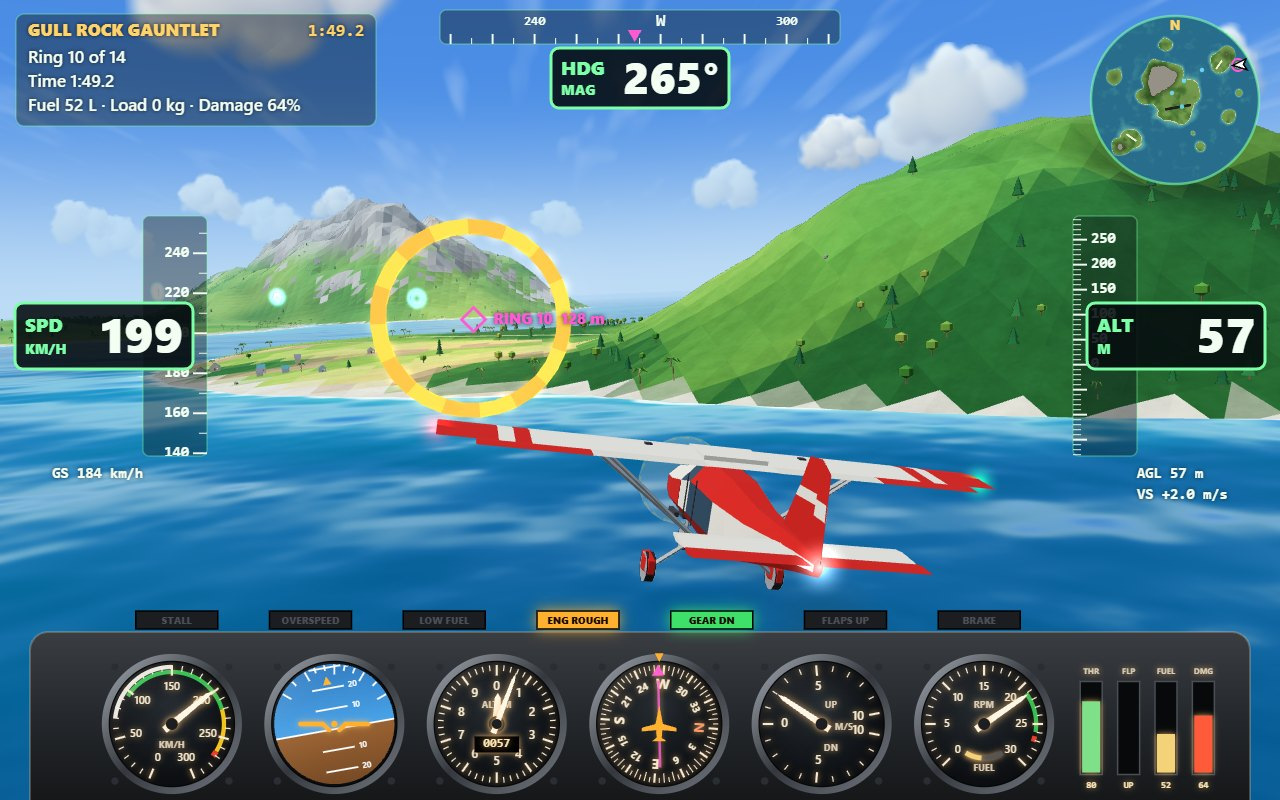
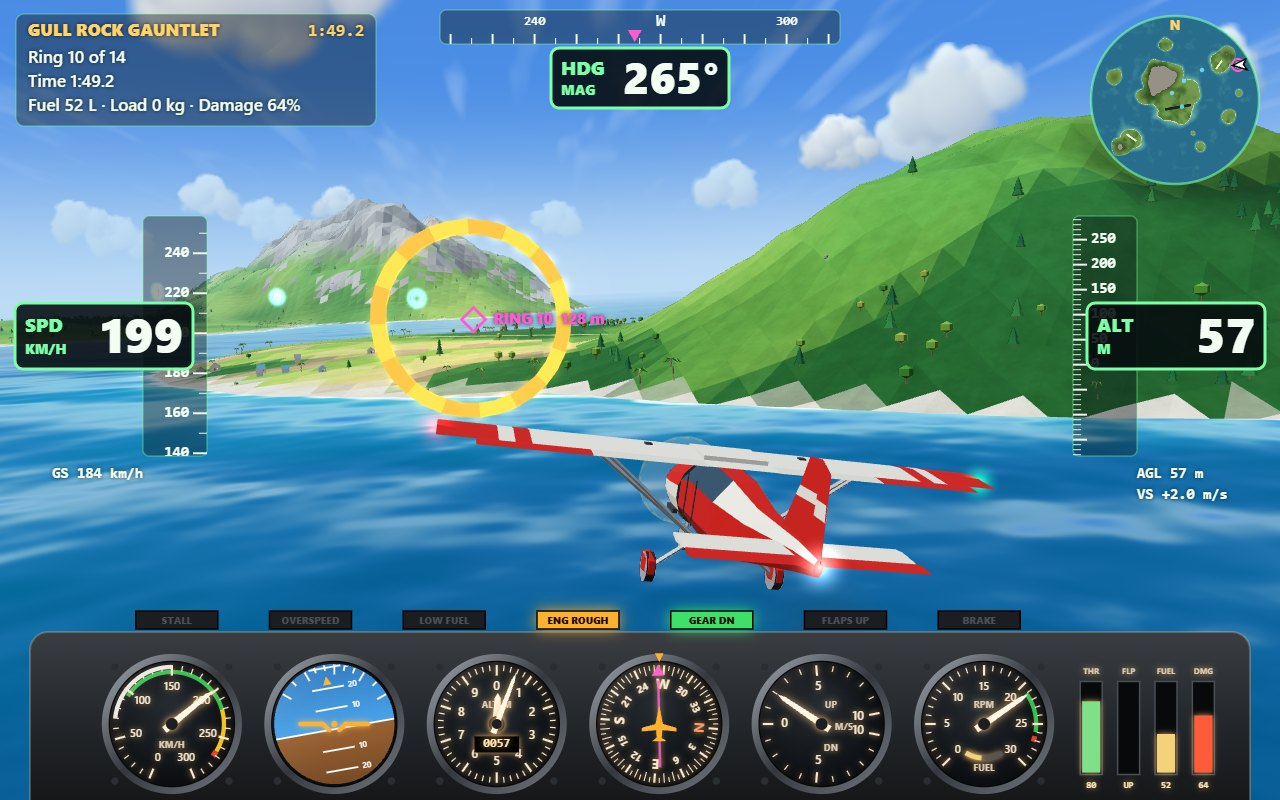
Rounded red cowl with cream stripe and spinner in the cockpit view; glossy symmetric livery

Changed region(s): [[0.5, 0.5625, 0.625, 0.6875], [0.625, 0.6875, 0.6562, 0.7188]]

diff --git a/game/src/sortie-board.js b/game/src/sortie-board.js
@@ -4,7 +4,7 @@ import { formatTime } from './missions.js';
 import { performance } from './loadout.js';
 import { AIRFRAME } from './flight-model.js';
 import { WORLD_HALF } from './world-layout.js';
-import { FONT, SERIF, gradient, line, panel, poly, text, wrapText } from './canvas-kit.js';
+import { FONT, SERIF, gradient, line, panel, poly, text, textTL, wrapText } from './canvas-kit.js';
 import { KEYS, card, drawMedal, tile } from './screens.js';
 
 const KIND = { landing: ['LANDING', '#7dd3ff'], rings: ['RING COURSE', '#ffd36b'], drop: ['SUPPLY DROP', '#ff9a5c'], mail: ['MAIL RUN', '#b7f07a'], free: ['EXPLORE', '#d2c2ff'] };
@@ -60,7 +60,7 @@ function routeChart(ctx, minimap, def, x, y, s) {
 }
 
 function loadBar(ctx, x, y, w, label, value, frac, color, keys) {
-	text(ctx, label, x, y, 14, DIM, 800, FONT, 'left', 'top');
+	textTL(ctx, label, x, y, 14, DIM, 800);
 	text(ctx, keys, x + w, y, 12, '#6f8794', 700, FONT, 'right', 'top');
 	const button = (bx, t) => {
 		panel(ctx, bx, y + 22, 30, 30, 6, 'rgba(255,255,255,0.12)', 'rgba(255,255,255,0.3)');
@@ -96,16 +96,16 @@ export function drawSortieBoard(ctx, W, H, { selected, best, time, loadout, mini
 
 	const def = MISSIONS[selected], bx = 512, bw = Math.min(W - bx - 36, 740), px = 538, right = bx + bw - 26;
 	card(ctx, bx, 40, bw, 676);
-	text(ctx, 'SORTIE BRIEFING', px, 62, 13, DIM, 800, FONT, 'left', 'top');
-	text(ctx, def.title, px, 82, 32, GOLD, 800, FONT, 'left', 'top');
+	textTL(ctx, 'SORTIE BRIEFING', px, 62, 13, DIM, 800);
+	textTL(ctx, def.title, px, 82, 32, GOLD, 800);
 	chip(ctx, right, 62, def.kind);
 	ctx.font = `500 17px ${FONT}`;
-	wrapText(ctx, def.brief, bw - 52).forEach((l, i) => text(ctx, l, px, 130 + i * 24, 17, '#e3ebef', 500, FONT, 'left', 'top'));
+	wrapText(ctx, def.brief, bw - 52).forEach((l, i) => textTL(ctx, l, px, 130 + i * 24, 17, '#e3ebef', 500));
 	routeChart(ctx, minimap, def, px, 190, 300);
-	text(ctx, `WIND ${String(def.wind.fromDeg).padStart(3, '0')}° ${Math.round(def.wind.speed * 3.6)} KM/H${def.wind.gust > 0.3 ? ', GUSTING' : ''}`, px, 500, 13, DIM, 800, FONT, 'left', 'top');
+	textTL(ctx, `WIND ${String(def.wind.fromDeg).padStart(3, '0')}° ${Math.round(def.wind.speed * 3.6)} KM/H${def.wind.gust > 0.3 ? ', GUSTING' : ''}`, px, 500, 13, DIM, 800);
 
 	const lx = px + 326, lw = right - lx, perf = performance(loadout), A = AIRFRAME, c = def.cargo;
-	text(ctx, 'LOADOUT', lx, 190, 15, '#fff', 900, FONT, 'left', 'top');
+	textTL(ctx, 'LOADOUT', lx, 190, 15, '#fff', 900);
 	const [fm, fp] = loadBar(ctx, lx, 220, lw, 'FUEL', `${loadout.fuel} L  ·  ${Math.round(loadout.fuel * A.fuelKgPerLitre)} kg`, loadout.fuel / A.fuelCapacity, '#e8b23a', 'A / D');
 	hit(fm, { fuel: -1 });
 	hit(fp, { fuel: 1 });
@@ -113,7 +113,7 @@ export function drawSortieBoard(ctx, W, H, { selected, best, time, loadout, mini
 		const [cm, cp] = loadBar(ctx, lx, 290, lw, c.label, c.each ? `${loadout.cargo / c.each} × ${c.each} kg` : `${loadout.cargo} kg`, loadout.cargo / A.maxCargo, '#5fb8ff', 'Q / E');
 		hit(cm, { cargo: -1 });
 		hit(cp, { cargo: 1 });
-	} else text(ctx, 'No cargo on this sortie', lx, 312, 14, '#6f8794', 700, FONT, 'left', 'top');
+	} else textTL(ctx, 'No cargo on this sortie', lx, 312, 14, '#6f8794', 700);
 	const tw = (lw - 10) / 2, red = '#ff8a6b';
 	tile(ctx, lx, 366, tw, 'TAKE-OFF WEIGHT', String(Math.round(perf.mass)), 'kg', perf.mass > 1050 ? red : INK);
 	tile(ctx, lx + tw + 10, 366, tw, 'STALL, CLEAN', String(Math.round(perf.stallKmh)), 'km/h', INK);
@@ -122,11 +122,11 @@ export function drawSortieBoard(ctx, W, H, { selected, best, time, loadout, mini
 
 	ctx.strokeStyle = 'rgba(255,255,255,0.15)';
 	line(ctx, px, 574, right, 574);
-	text(ctx, 'MEDALS', px, 588, 13, DIM, 800, FONT, 'left', 'top');
-	text(ctx, medalTargets(def), px, 610, 16, INK, 700, FONT, 'left', 'top');
-	text(ctx, 'YOUR BEST', px, 646, 13, DIM, 800, FONT, 'left', 'top');
+	textTL(ctx, 'MEDALS', px, 588, 13, DIM, 800);
+	textTL(ctx, medalTargets(def), px, 610, 16, INK, 700);
+	textTL(ctx, 'YOUR BEST', px, 646, 13, DIM, 800);
 	drawMedal(ctx, px + 102, 656, 13, best[def.id]);
-	text(ctx, best[def.id] ? best[def.id].toUpperCase() : 'NOT YET FLOWN', px + 124, 648, 15, INK, 800, FONT, 'left', 'top');
+	textTL(ctx, best[def.id] ? best[def.id].toUpperCase() : 'NOT YET FLOWN', px + 124, 648, 15, INK, 800);
 	panel(ctx, right - 230, 632, 230, 58, 12, Math.floor(time * 2) % 2 ? '#ffd36b' : '#ffc23a');
 	text(ctx, 'TAKE OFF  ⏎', right - 115, 662, 22, '#1b1208', 900);
 	hit({ x: right - 230, y: 632, w: 230, h: 58 }, { go: true });

diff --git a/game/src/debrief.js b/game/src/debrief.js
@@ -1,6 +1,6 @@
 // The debrief after a sortie: a touchdown score card with its runway diagram, the result lines, the crash explained, and a damage diagram.
 import { findStrip } from './world-layout.js';
-import { FONT, line, panel, poly, text, wrapText } from './canvas-kit.js';
+import { FONT, line, panel, poly, text, textTL, wrapText } from './canvas-kit.js';
 import { card, drawMedal, tile } from './screens.js';
 import { sinkRating } from './landing-score.js';
 
@@ -11,7 +11,7 @@ const FAILED = { gear: 'COLLAPSED', flaps: 'JAMMED', engine: 'SEIZED', airframe:
 function damageDiagram(ctx, x, y, w, ac) {
 	const p = ac.crashed ? { engine: 100, gear: 100, flaps: 100, airframe: 100 } : ac.parts, cx = x + w / 2, cy = y + 120, s = w / 12.5;
 	const shape = (pts, d) => poly(ctx, pts.map(([u, v]) => [cx + u * s, cy + v * s]), health(d), '#000');
-	text(ctx, 'AIRCRAFT CONDITION', x, y, 13, DIM, 800, FONT, 'left', 'top');
+	textTL(ctx, 'AIRCRAFT CONDITION', x, y, 13, DIM, 800);
 	shape([[-5.6, -1.4], [5.6, -1.4], [5.6, 0], [-5.6, 0]], p.airframe);
 	for (const m of [1, -1]) shape([[m * 0.7, 0], [m * 2.85, 0], [m * 2.85, 0.45], [m * 0.7, 0.45]], p.flaps);
 	shape([[-0.6, -1.8], [0.6, -1.8], [0.45, 1.7], [0.12, 3.9], [-0.12, 3.9], [-0.45, 1.7]], p.airframe);
@@ -25,7 +25,7 @@ function damageDiagram(ctx, x, y, w, ac) {
 		text(ctx, `${Math.round(d)}%  ${d >= 100 ? FAILED[part] : d >= 50 ? 'DAMAGED' : d >= 20 ? 'WORN' : 'OK'}`, x + w, ry, 14, health(d), 800, FONT, 'right');
 	});
 	const worst = Math.max(...Object.values(p));
-	if (!ac.crashed && worst > 0) text(ctx, `Strip repair: about ${Math.ceil(worst / 4)} s stopped`, x, y + 340, 13, DIM, 700, FONT, 'left', 'top');
+	if (!ac.crashed && worst > 0) textTL(ctx, `Strip repair: about ${Math.ceil(worst / 4)} s stopped`, x, y + 340, 13, DIM, 700);
 }
 
 function touchdownDiagram(ctx, x, y, w, def, card, td, stop) {
@@ -61,10 +61,10 @@ export function drawDebrief(ctx, W, H, def, result, report, ac) {
 	ctx.save();
 	ctx.setTransform(k, 0, 0, k, (W - 1280 * k) / 2, 0);
 	card(ctx, 140, 34, 1000, 640);
-	text(ctx, `${def.title.toUpperCase()}  ·  DEBRIEF`, 170, 58, 13, DIM, 800, FONT, 'left', 'top');
-	text(ctx, report ? 'CRASHED' : c ? `LANDING ${result.score} / 100` : result.success ? 'MISSION COMPLETE' : 'MISSION FAILED', 170, 78, 38, report ? '#ff6b4f' : result.success ? GOOD : '#ffb02e', 900, FONT, 'left', 'top');
+	textTL(ctx, `${def.title.toUpperCase()}  ·  DEBRIEF`, 170, 58, 13, DIM, 800);
+	textTL(ctx, report ? 'CRASHED' : c ? `LANDING ${result.score} / 100` : result.success ? 'MISSION COMPLETE' : 'MISSION FAILED', 170, 78, 38, report ? '#ff6b4f' : result.success ? GOOD : '#ffb02e', 900);
 	ctx.font = `700 19px ${FONT}`;
-	wrapText(ctx, (report || result).headline || '', 560).forEach((l, i) => text(ctx, l, 170, 130 + i * 24, 19, '#fff6e2', 700, FONT, 'left', 'top'));
+	wrapText(ctx, (report || result).headline || '', 560).forEach((l, i) => textTL(ctx, l, 170, 130 + i * 24, 19, '#fff6e2', 700));
 	if (!report) {
 		drawMedal(ctx, 1070, 110, 34, result.medal);
 		text(ctx, result.medal ? result.medal.toUpperCase() : 'NO MEDAL', 1070, 160, 13, DIM, 800);
@@ -82,7 +82,7 @@ export function drawDebrief(ctx, W, H, def, result, report, ac) {
 	ctx.font = `600 16px ${FONT}`;
 	for (const l of lines.slice(0, 8)) {
 		const m = l.match(/^(.*?)\s*\(([+-]\d+)\)$/);
-		for (const part of wrapText(ctx, m ? m[1] : l, 530)) text(ctx, part, 170, (y += 22) - 22, 16, INK, 600, FONT, 'left', 'top');
+		for (const part of wrapText(ctx, m ? m[1] : l, 530)) textTL(ctx, part, 170, (y += 22) - 22, 16, INK, 600);
 		if (m) text(ctx, m[2], 760, y - 22, 17, m[2] === '+0' ? '#ff8a6b' : GOOD, 800, FONT, 'right', 'top');
 		y += 5;
 	}

diff --git a/game/src/missions.js b/game/src/missions.js
@@ -1,5 +1,5 @@
 // Mission runtime: start a sortie with its loadout, follow each step (rings, gate, touchdown, crates, mail), grade it.
-import { DEG, length } from './math3d.js';
+import { DEG, clamp, length } from './math3d.js';
 import { AIRFRAME, worstDamage } from './flight-model.js';
 import { defaultLoadout } from './loadout.js';
 import { layRingCourse, makeRing, ringCrossing } from './rings.js';
@@ -32,7 +32,7 @@ export function startMission(def, world, loadout = defaultLoadout(def)) {
 	const run = {
 		def, loadout, time: 0, status: 'running', result: null, messages: [], sounds: [], rings: [], gate: null, targets: [], crates: [], cratesLeft: 0,
 		ringIndex: 0, targetIndex: 0, stopIndex: 0, holdTimer: 0, firstTouchdown: null, waypoint: null, delivered: [],
-		say: (text, color = '#ffffff', seconds = 2.5) => run.messages.push({ text, color, seconds }),
+		say: (text, color = '#fff', seconds = 2.5) => run.messages.push({ text, color, seconds }),
 	};
 	const k = def.kind, port = findStrip('port'), d = stripDirection(port), back = port.length / 2 - 40;
 	run.start = { pos: [port.x - d[0] * back, port.elev + 1.35, port.z - d[2] * back], heading: port.heading * DEG, flaps: 1, onGround: true };
@@ -92,7 +92,7 @@ function updateLanding(run, ac, world) {
 	res.lines.unshift(gate.passed ? 'Approach gate threaded' : 'Approach gate missed  (-10)');
 	const stores = def.cargo && on ? Math.floor(run.loadout.cargo / 24) : 0;
 	if (stores) res.lines.push(`${run.loadout.cargo} kg of medical stores delivered  (+${stores})`);
-	res.score = Math.max(0, Math.min(100, res.score + stores - (gate.passed ? 0 : 10)));
+	res.score = clamp(res.score + stores - (gate.passed ? 0 : 10), 0, 100);
 	const ok = on && res.score >= 40;
 	const headline = !on ? 'Landed off the strip' : ok ? `Down at ${Math.abs(td.vs).toFixed(1)} m/s, ${Math.round(res.fromThreshold)} m past the threshold, ${Math.abs(td.across).toFixed(1)} m off the line` : `Scored ${res.score} / 100: not good enough to pass`;
 	finish(run, ok, { medal: medalFor(res.score), score: res.score, headline, lines: res.lines, touchdown: td, card: res, stop: stripLocal(findStrip(def.strip), ac.pos[0], ac.pos[2]) });
@@ -108,7 +108,7 @@ function updateCrate(run, c, world, dt) {
 	const dist = Math.hypot(c.pos[0] - t.pos[0], c.pos[2] - t.pos[2]);
 	if (dist >= 150) return run.say(`Crate lost ${Math.round(dist)} m wide`, '#ff8a6b');
 	Object.assign(t, { done: true, dist, score: Math.round(100 * Math.exp(-dist / 45)) });
-	run.say(`${t.name}: ${Math.round(dist)} m from the mark  (+${t.score})`, dist < 15 ? '#ffd36b' : '#ffffff', 3);
+	run.say(`${t.name}: ${Math.round(dist)} m from the mark  (+${t.score})`, dist < 15 ? '#ffd36b' : '#fff', 3);
 	run.sounds.push(dist < 15 ? 'ring' : 'thud');
 	const next = run.targets[++run.targetIndex];
 	run.waypoint = next ? { pos: next.pos, label: 'DROP' } : null;
@@ -120,7 +120,7 @@ function updateDrop(run, ac, world, dt, drop) {
 		ac.cargo = Math.max(0, ac.cargo - run.def.cargo.each);
 		run.crates.push(newCrate(ac));
 		run.sounds.push('drop');
-		run.say(`Crate away: ${run.cratesLeft} left`, '#ffffff', 1.5);
+		run.say(`Crate away: ${run.cratesLeft} left`, '#fff', 1.5);
 	}
 	for (const c of run.crates) if (!c.landed) updateCrate(run, c, world, dt);
 	const allDone = run.targetIndex >= run.targets.length;

diff --git a/game/src/aircraft-mesh.js b/game/src/aircraft-mesh.js
@@ -36,14 +36,13 @@ function panel(mb, x0, x1, zf, zt, y, t, top, bottom = top) {
 	}
 }
 
-function buildNose(mb) {
-	const top = [RED, CREAM, CREAM, RED, RED, RED, RED, RED];
-	mb.loft([{ z: -3.35, w: 0.42, h: 0.42, y: 0.05, color: RED, colors: top }, { z: -2.6, w: 0.56, h: 0.56, y: 0.08, colors: top }, { z: -1.7, w: 0.62, h: 0.7, y: 0.2, color: DARK }]);
-	for (let k = 0; k < 4; k++) mb.box(0, 0.63, -2.75 + k * 0.17, 0.42, 0.03, 0.06, DARK);
+function buildNose(mb, tail = []) {
+	const colors = [...'rrrcrrrccrrrrrcc'].map((c) => (c > 'q' ? RED : CREAM));
+	mb.loft([{ z: -3.4, w: 0.36, h: 0.36, y: 0.05, color: DARK, colors }, { z: -3.15, w: 0.5, h: 0.5, y: 0.07, colors }, { z: -2.5, w: 0.6, h: 0.62, y: 0.12, colors }, { z: -1.7, w: 0.63, h: 0.72, y: 0.2, color: DARK, colors }, ...tail], 16);
 	mb.box(0, -0.5, -2.65, 0.36, 0.14, 0.4, DARK);
-	for (const s of [-1, 1]) mb.box(s * 0.45, -0.38, -2.3, 0.1, 0.1, 0.5, DARK);
-	mb.push(mat4Compose(mat4Translate(0, HINGES.prop.y, -3.35), mat4RotateX(-Math.PI / 2)));
-	mb.frustum(0, 0, 0, 0.3, 0.5, 0, 8, RED);
+	for (const s of [-1, 1]) mb.box(s * 0.5, -0.3, -2.3, 0.1, 0.1, 0.5, DARK);
+	mb.push(mat4Compose(mat4Translate(0, HINGES.prop.y, -3.4), mat4RotateX(-Math.PI / 2)));
+	mb.frustum(0, 0, 0, 0.32, 0.3, 0.22, 12, RED).frustum(0, 0.3, 0, 0.22, 0.55, 0, 12, CREAM);
 	mb.pop();
 }
 
@@ -59,11 +58,11 @@ function buildWing(mb) {
 }
 
 function buildBody(mb) {
-	const side = (glass) => [CREAM, RED, RED, CREAM, RED, RED, RED, RED].map((c, k) => (glass && (k === 0 || k === 3) ? GLASS : c));
+	const side = (glass) => [CREAM, RED, CREAM, RED, RED, RED, RED, RED].map((c, k) => (glass && (k === 0 || k === 2) ? GLASS : c));
 	buildNose(mb);
 	buildWing(mb);
 	mb.loft([
-		{ z: -1.7, w: 0.62, h: 0.7, y: 0.2, color: RED, colors: [CREAM, GLASS, GLASS, CREAM, RED, NAVY, NAVY, RED] }, { z: -1.0, w: 0.64, h: 0.84, y: 0.3, colors: side(true) },
+		{ z: -1.7, w: 0.62, h: 0.7, y: 0.2, color: RED, colors: [GLASS, GLASS, GLASS, RED, RED, NAVY, NAVY, RED] }, { z: -1.0, w: 0.64, h: 0.84, y: 0.3, colors: side(true) },
 		{ z: 0.1, w: 0.63, h: 0.82, y: 0.3, colors: side(true) }, { z: 0.5, w: 0.62, h: 0.8, y: 0.3, colors: side(false) },
 		{ z: 1.7, w: 0.42, h: 0.52, y: 0.38, colors: side(false) }, { z: 3.3, w: 0.18, h: 0.26, y: 0.58, colors: side(false) },
 		{ z: 3.95, w: 0.08, h: 0.14, y: 0.62, color: RED },
@@ -110,7 +109,7 @@ export function buildAircraftMeshes() {
 	const surface = (x0, x1, color, zf = -0.08, zt = 0.38, y = 1.22, t = 0.08) => mesh((mb) => panel(mb, x0, x1, zf, zt, y, t, color));
 	const z = HINGES.rudder.z;
 	return {
-		body: mesh(buildBody), cockpit: mesh(buildNose), gear: mesh(buildGear), blades: mesh(buildBlades), disc: mesh(buildDisc),
+		body: mesh(buildBody), cockpit: mesh((mb) => buildNose(mb, [{ z: -0.6, w: 0.64, h: 0.76, y: 0.22, color: DARK }])), gear: mesh(buildGear), blades: mesh(buildBlades), disc: mesh(buildDisc),
 		aileronL: surface(-4.9, -2.85, RED), aileronR: surface(2.85, 4.9, RED), flapL: surface(-2.85, -0.7, FLAP), flapR: surface(0.7, 2.85, FLAP),
 		elevator: surface(-1.9, 1.9, RED, 3.45, 3.9, 0.62, 0.07),
 		rudder: mesh((mb) => {

diff --git a/game/src/main.js b/game/src/main.js
@@ -1,5 +1,5 @@
 // Saltwind Isles entry point: title, flight and debrief loop at a fixed physics step; ?shot=<name> stages a screenshot.
-import { attitudeOf, length } from './math3d.js';
+import { attitudeOf, clamp, length } from './math3d.js';
 import { GLRenderer } from './gl-renderer.js';
 import { createWorld } from './world.js';
 import { SceneRenderer } from './scene-render.js';
@@ -39,9 +39,7 @@ function parkedAircraft() {
 }
 game.ac = parkedAircraft();
 
-function toTitle() {
-	Object.assign(game, { state: 'title', ac: parkedAircraft(), run: null });
-}
+const toTitle = () => Object.assign(game, { state: 'title', ac: parkedAircraft(), run: null });
 
 function startMissionAt(index) {
 	const def = MISSIONS[index], run = startMission(def, world, { ...loadoutFor(def) });
@@ -53,9 +51,7 @@ function startMissionAt(index) {
 const NOTES = { 'engine-out': ['ENGINE FAILURE: glide to a strip', '#ff5a3a', 4], 'fuel-out': ['Fuel exhausted: engine stopped', '#ff5a3a', 4], 'tail-strike': ['Tail strike!', '#ff9a3c', 2] };
 const key = (...codes) => codes.some((c) => controls.consume(c));
 
-function say(text, color = '#ffffff', seconds = 2.5) {
-	game.message = { text, color, left: seconds };
-}
+const say = (text, color = '#fff', left = 2.5) => (game.message = { text, color, left });
 
 function handleEvents(ac, run) {
 	for (const e of ac.events) {
@@ -63,7 +59,7 @@ function handleEvents(ac, run) {
 			const r = sinkRating(e.info.vs), strength = Math.min(2, Math.abs(e.info.vs) / 1.5);
 			effects.touchdown([ac.pos[0], ac.pos[1] - 1.35, ac.pos[2]], e.info.kind !== 'runway', strength);
 			audio.play('touchdown', Math.min(1.5, 0.4 + strength));
-			say(`${r.label} touchdown  ${Math.abs(e.info.vs).toFixed(1)} m/s`, r.points >= 33 ? '#7dffa8' : r.points >= 22 ? '#ffffff' : '#ffb02e');
+			say(`${r.label} touchdown  ${Math.abs(e.info.vs).toFixed(1)} m/s`, r.points >= 33 ? '#7dffa8' : r.points >= 22 ? '#fff' : '#ffb02e');
 		} else if (e.type === 'crash') {
 			effects.crash(ac.pos, e.info.kind === 'water');
 			audio.play('crash');
@@ -87,9 +83,9 @@ function handleEvents(ac, run) {
 function simulate(dt, input, actions = {}) {
 	const ac = game.ac, run = game.run;
 	if (input.throttleSet != null) ac.throttle = input.throttleSet;
-	ac.throttle = Math.max(0, Math.min(1, ac.throttle + (input.throttleDelta || 0)));
+	ac.throttle = clamp(ac.throttle + (input.throttleDelta || 0), 0, 1);
 	ac.brakes = !!input.brakes;
-	ac.flaps = Math.max(0, Math.min(2, ac.flaps + (actions.flapsDown ? 1 : 0) - (actions.flapsUp ? 1 : 0)));
+	ac.flaps = clamp(ac.flaps + !!actions.flapsDown - !!actions.flapsUp, 0, 2);
 	let drop = !!actions.drop;
 	for (game.accumulator += dt; game.accumulator >= STEP; game.accumulator -= STEP, drop = false) {
 		stepAircraft(ac, input, world, STEP);

diff --git a/game/src/mesh-builder.js b/game/src/mesh-builder.js
@@ -76,14 +76,14 @@ export class MeshBuilder {
 		return this;
 	}
 
-	loft(sections) {
-		const rings = sections.map((s) => [...Array(8)].map((_, k) => [Math.cos(k * 0.7854 + 0.3927) * s.w, s.y + Math.sin(k * 0.7854 + 0.3927) * s.h, s.z]));
+	loft(sections, n = 8) {
+		const rings = sections.map((s) => [...Array(n)].map((_, k) => [Math.cos((k + 0.5) * 6.2832 / n) * s.w, s.y + Math.sin((k + 0.5) * 6.2832 / n) * s.h, s.z]));
 		rings.forEach((A, i) => {
 			const B = rings[i + 1], s = sections[i];
-			if (B) for (let k = 0; k < 8; k++) this.quad(A[k], A[(k + 1) % 8], B[(k + 1) % 8], B[k], s.colors ? s.colors[k] : s.color);
+			if (B) for (let k = 0; k < n; k++) this.quad(A[k], A[(k + 1) % n], B[(k + 1) % n], B[k], s.colors ? s.colors[k] : s.color);
 		});
 		const first = rings[0], last = rings[rings.length - 1];
-		for (let k = 1; k < 7; k++) {
+		for (let k = 1; k < n - 1; k++) {
 			this.tri(first[0], first[k + 1], first[k], sections[0].color);
 			this.tri(last[0], last[k], last[k + 1], sections[sections.length - 1].color);
 		}

diff --git a/game/src/shaders.js b/game/src/shaders.js
@@ -67,6 +67,7 @@ void main() {
 
 export const LIT_FS = HEAD + `uniform float uAlpha;
 uniform float uGround;
+uniform float uGloss;
 uniform vec3 uTint;
 in vec3 vWorld;
 in vec3 vNormal;
@@ -88,7 +89,7 @@ void main() {
 	vec3 amb = mix(vec3(0.3, 0.33, 0.3), vec3(0.46, 0.56, 0.74), n.y * 0.5 + 0.5) * (0.82 + 0.18 * shade);
 	vec3 v = normalize(uCamPos - vWorld);
 	float rim = pow(1.0 - max(dot(n, v), 0.0), 3.0) * 0.12;
-	vec3 col = base * (amb + SUNLIGHT * diff) + rim * HORIZON * 0.5;
+	vec3 col = base * (amb + SUNLIGHT * diff) + rim * HORIZON * 0.5 + uGloss * pow(max(dot(reflect(-uSunDir, n), v), 0.0), 24.0) * shade;
 	col = tonemap(col);
 	col = mix(col, min(base * 1.15 + 0.08, vec3(1.0)), vColor.a);
 	outColor = vec4(applyFog(col, vWorld), uAlpha);

diff --git a/game/src/screens.js b/game/src/screens.js
@@ -1,7 +1,7 @@
 // Shared screen pieces: the medal, the card and stat tile the board and debrief use, and the pause card.
 import { FONT, disc, gradient, panel, poly, ring, text } from './canvas-kit.js';
 
-const MEDAL_COLORS = { gold: ['#fff2a8', '#e0a91c', '#8a5a00'], silver: ['#ffffff', '#b8c2cc', '#5d6a75'], bronze: ['#ffd2a8', '#c8773a', '#6e3a12'] };
+const MEDAL_COLORS = { gold: ['#fff2a8', '#e0a91c', '#8a5a00'], silver: ['#fff', '#b8c2cc', '#5d6a75'], bronze: ['#ffd2a8', '#c8773a', '#6e3a12'] };
 export const KEYS = 'W/S pitch   ·   A/D roll   ·   Q/E rudder   ·   Shift/Ctrl or 1-0 throttle   ·   F/R flaps   ·   B brakes   ·   Space drop   ·   C cockpit   ·   Esc pause';
 
 export function drawMedal(ctx, x, y, r, medal) {

diff --git a/game/src/scene-render.js b/game/src/scene-render.js
@@ -30,7 +30,7 @@ export class SceneRenderer {
 			[P.elevator, hinge(el, -S.elevator * 0.42)], [P.rudder, about(model, [0, 0, rudder.z], mat4RotateY(S.rudder * 0.45))],
 		];
 		if (ac.parts.gear < 100) parts.push([P.gear, model]);
-		for (const [mesh, m] of cockpit ? parts.slice(0, 1) : parts) this.r.drawMesh(mesh, m, { tint });
+		for (const [mesh, m] of cockpit ? parts.slice(0, 1) : parts) this.r.drawMesh(mesh, m, { tint, gloss: 0.6 });
 		if (ac.rpm > 500 && !ac.crashed) this.r.drawMesh(P.disc, model, { alpha: 0.28 });
 		else this.r.drawMesh(P.blades, about(model, [0, prop.y, prop.z], mat4RotateZ(ac.propAngle)), { tint });
 		if (ac.crashed || cockpit) return;

diff --git a/game/src/gl-renderer.js b/game/src/gl-renderer.js
@@ -108,9 +108,9 @@ export class GLRenderer {
 		gl.enable(gl.DEPTH_TEST);
 	}
 
-	drawMesh(mesh, model, { alpha = 1, tint = [1, 1, 1], decal = 0, ground = false } = {}) {
+	drawMesh(mesh, model, { alpha = 1, tint = [1, 1, 1], decal = 0, ground = false, gloss = 0 } = {}) {
 		const gl = this.gl;
-		this.use(this.lit, { uModel: model, uAlpha: alpha, uTint: tint, uGround: ground });
+		this.use(this.lit, { uModel: model, uAlpha: alpha, uTint: tint, uGround: ground, uGloss: gloss });
 		this.blend(alpha < 1 && gl.ONE_MINUS_SRC_ALPHA);
 		gl[decal ? 'enable' : 'disable'](gl.POLYGON_OFFSET_FILL);
 		gl.polygonOffset(-decal, -decal * 2);

diff --git a/game/src/camera.js b/game/src/camera.js
@@ -30,10 +30,10 @@ export class FlightCamera {
 		if (this.mode === 'cockpit') {
 			this.eye = add(ac.pos, quatRotate(ac.q, [0, 1.5, -0.4]));
 			const cy = Math.cos(this.lookYaw), sy = Math.sin(this.lookYaw);
-			const local = [-sy * Math.cos(this.lookPitch), Math.sin(this.lookPitch) - 0.25, -cy * Math.cos(this.lookPitch)];
+			const local = [-sy * Math.cos(this.lookPitch), Math.sin(this.lookPitch) - 0.33, -cy * Math.cos(this.lookPitch)];
 			this.target = add(this.eye, quatRotate(ac.q, local));
 			this.up = acUp;
-			this.fov = 74;
+			this.fov = 64;
 			return;
 		}
 		const flat = normalize([fwd[0], 0, fwd[2]]);

diff --git a/game/src/canvas-kit.js b/game/src/canvas-kit.js
@@ -43,6 +43,8 @@ export function text(ctx, t, x, y, px, color = '#fff', weight = 600, font = FONT
 	ctx.fillText(t, x, y);
 }
 
+export const textTL = (ctx, ...a) => text(ctx, ...a, FONT, 'left', 'top');
+
 export function shadowText(ctx, t, x, y, px, color, weight = 700, font = FONT, align = 'center', baseline = 'middle') {
 	ctx.shadowColor = 'rgba(0,0,0,0.75)';
 	ctx.shadowBlur = 4;
